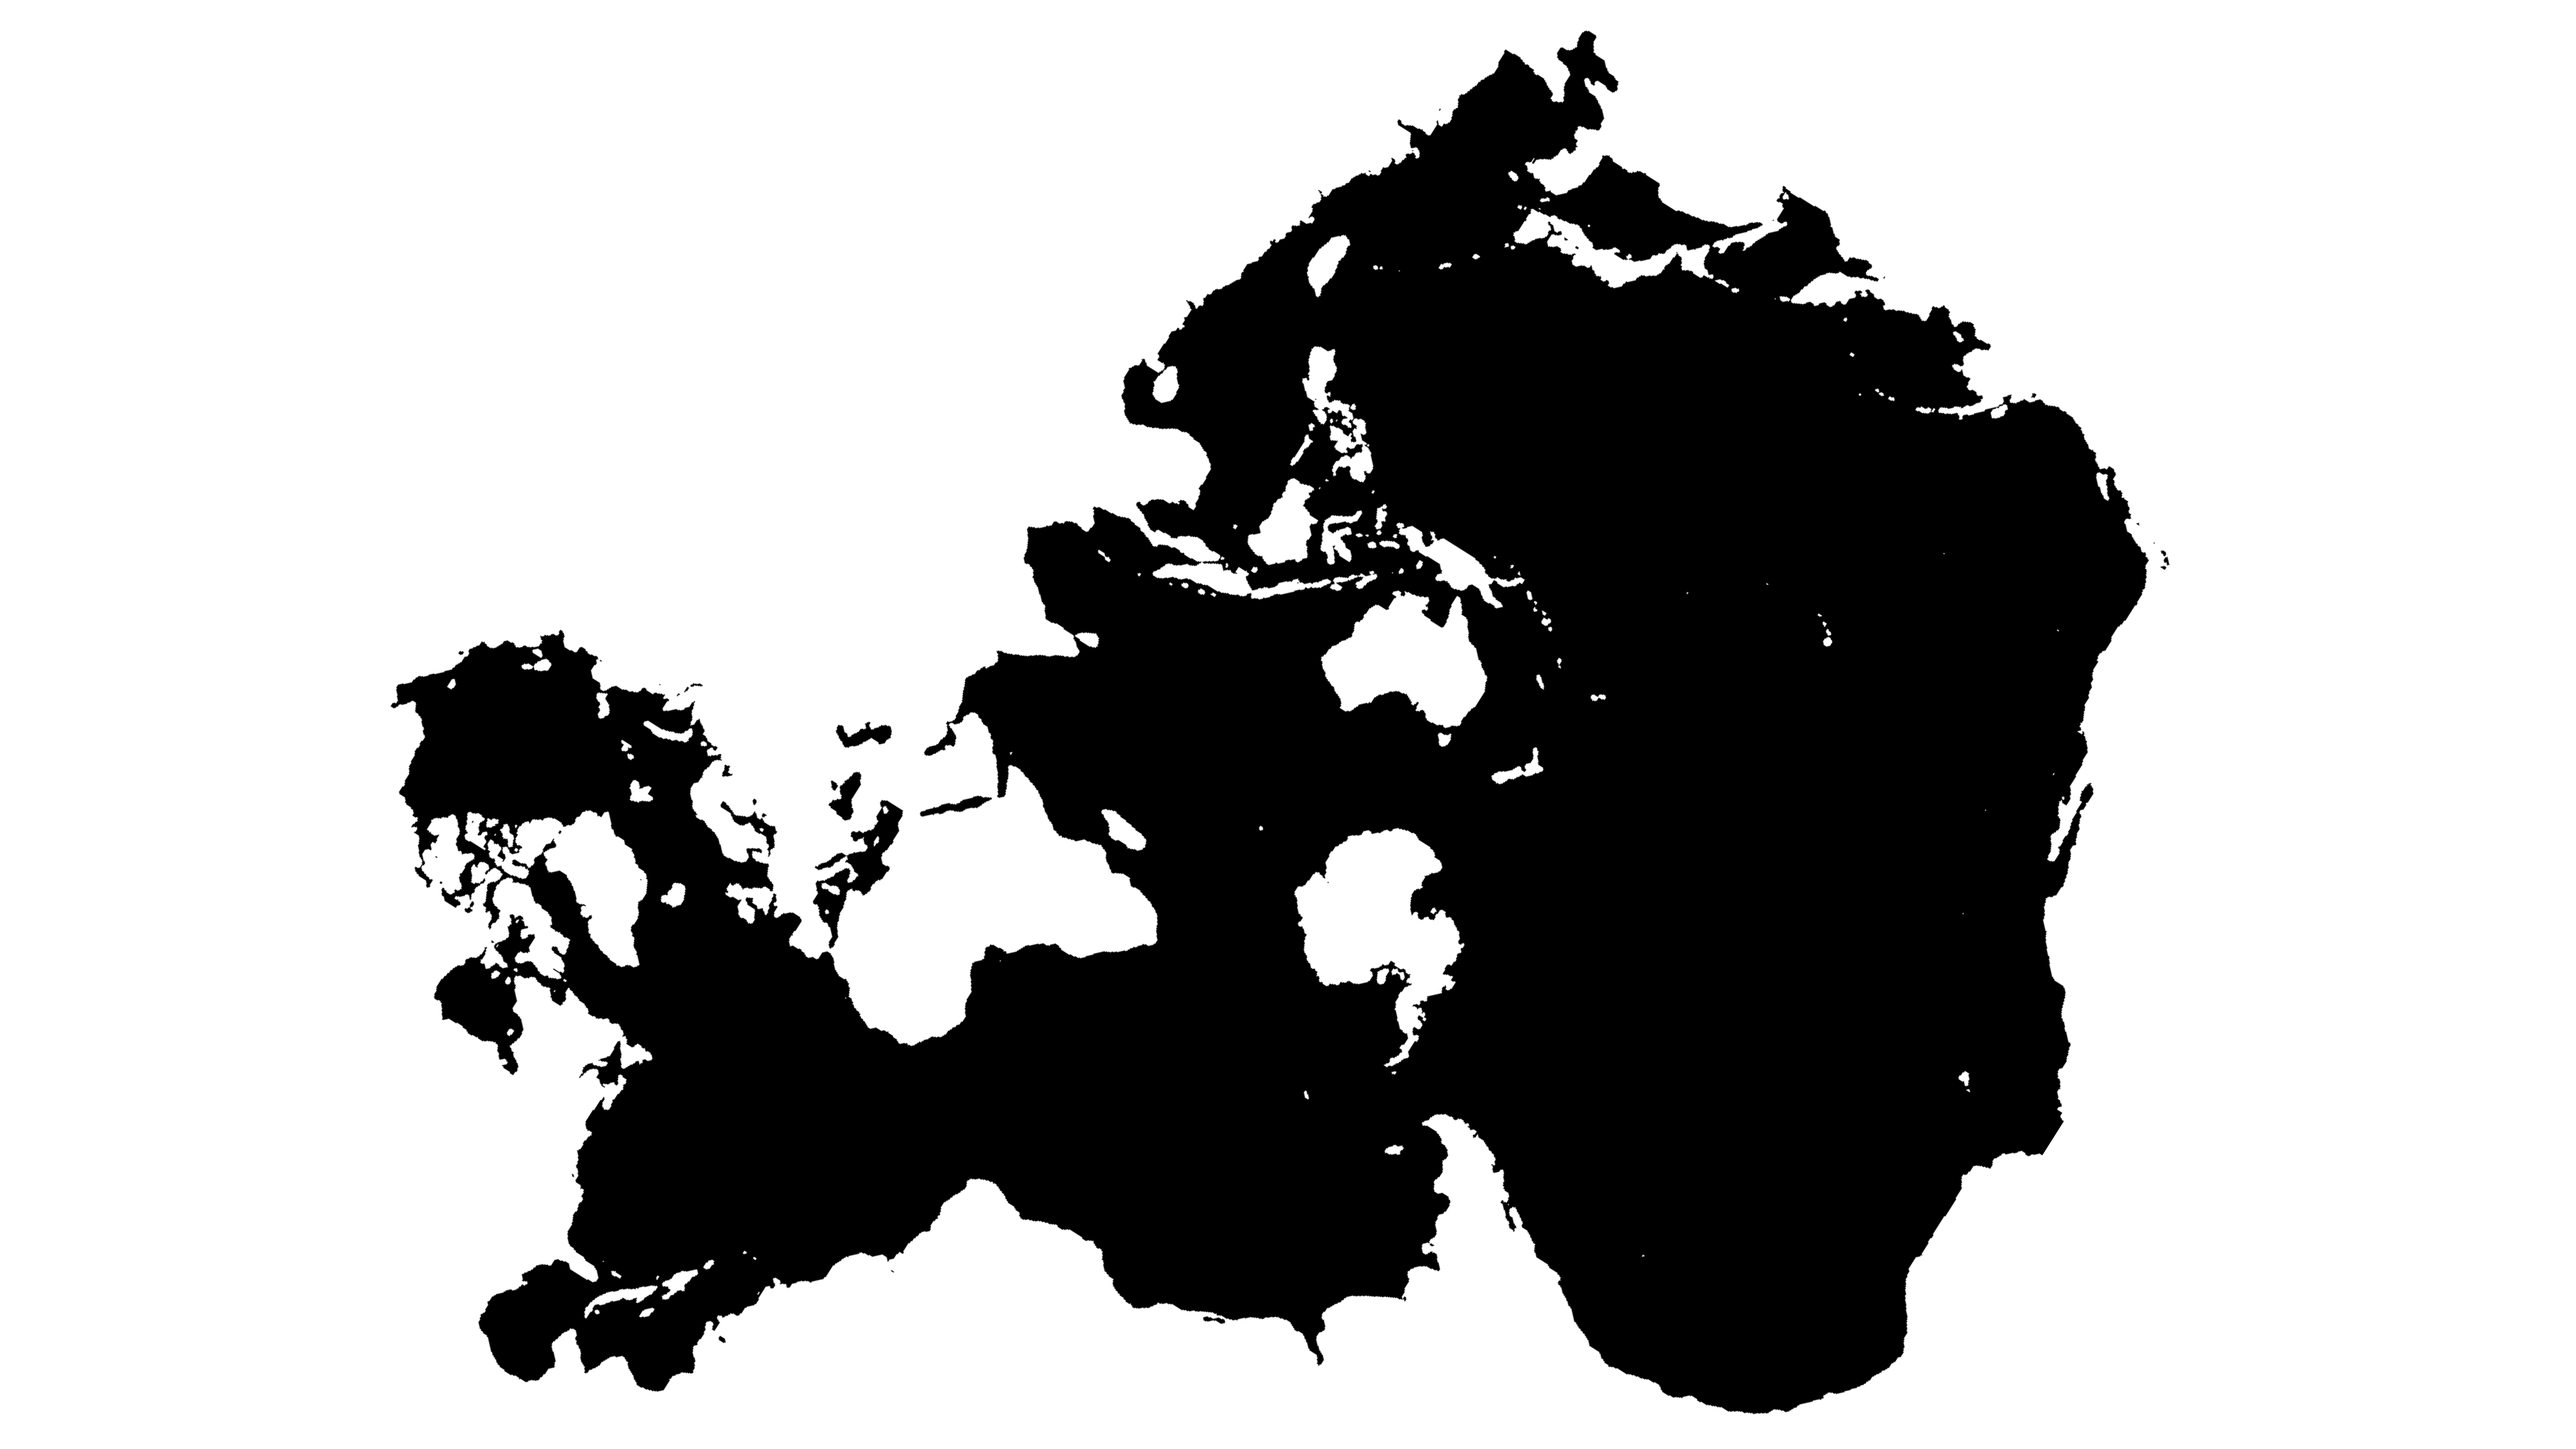
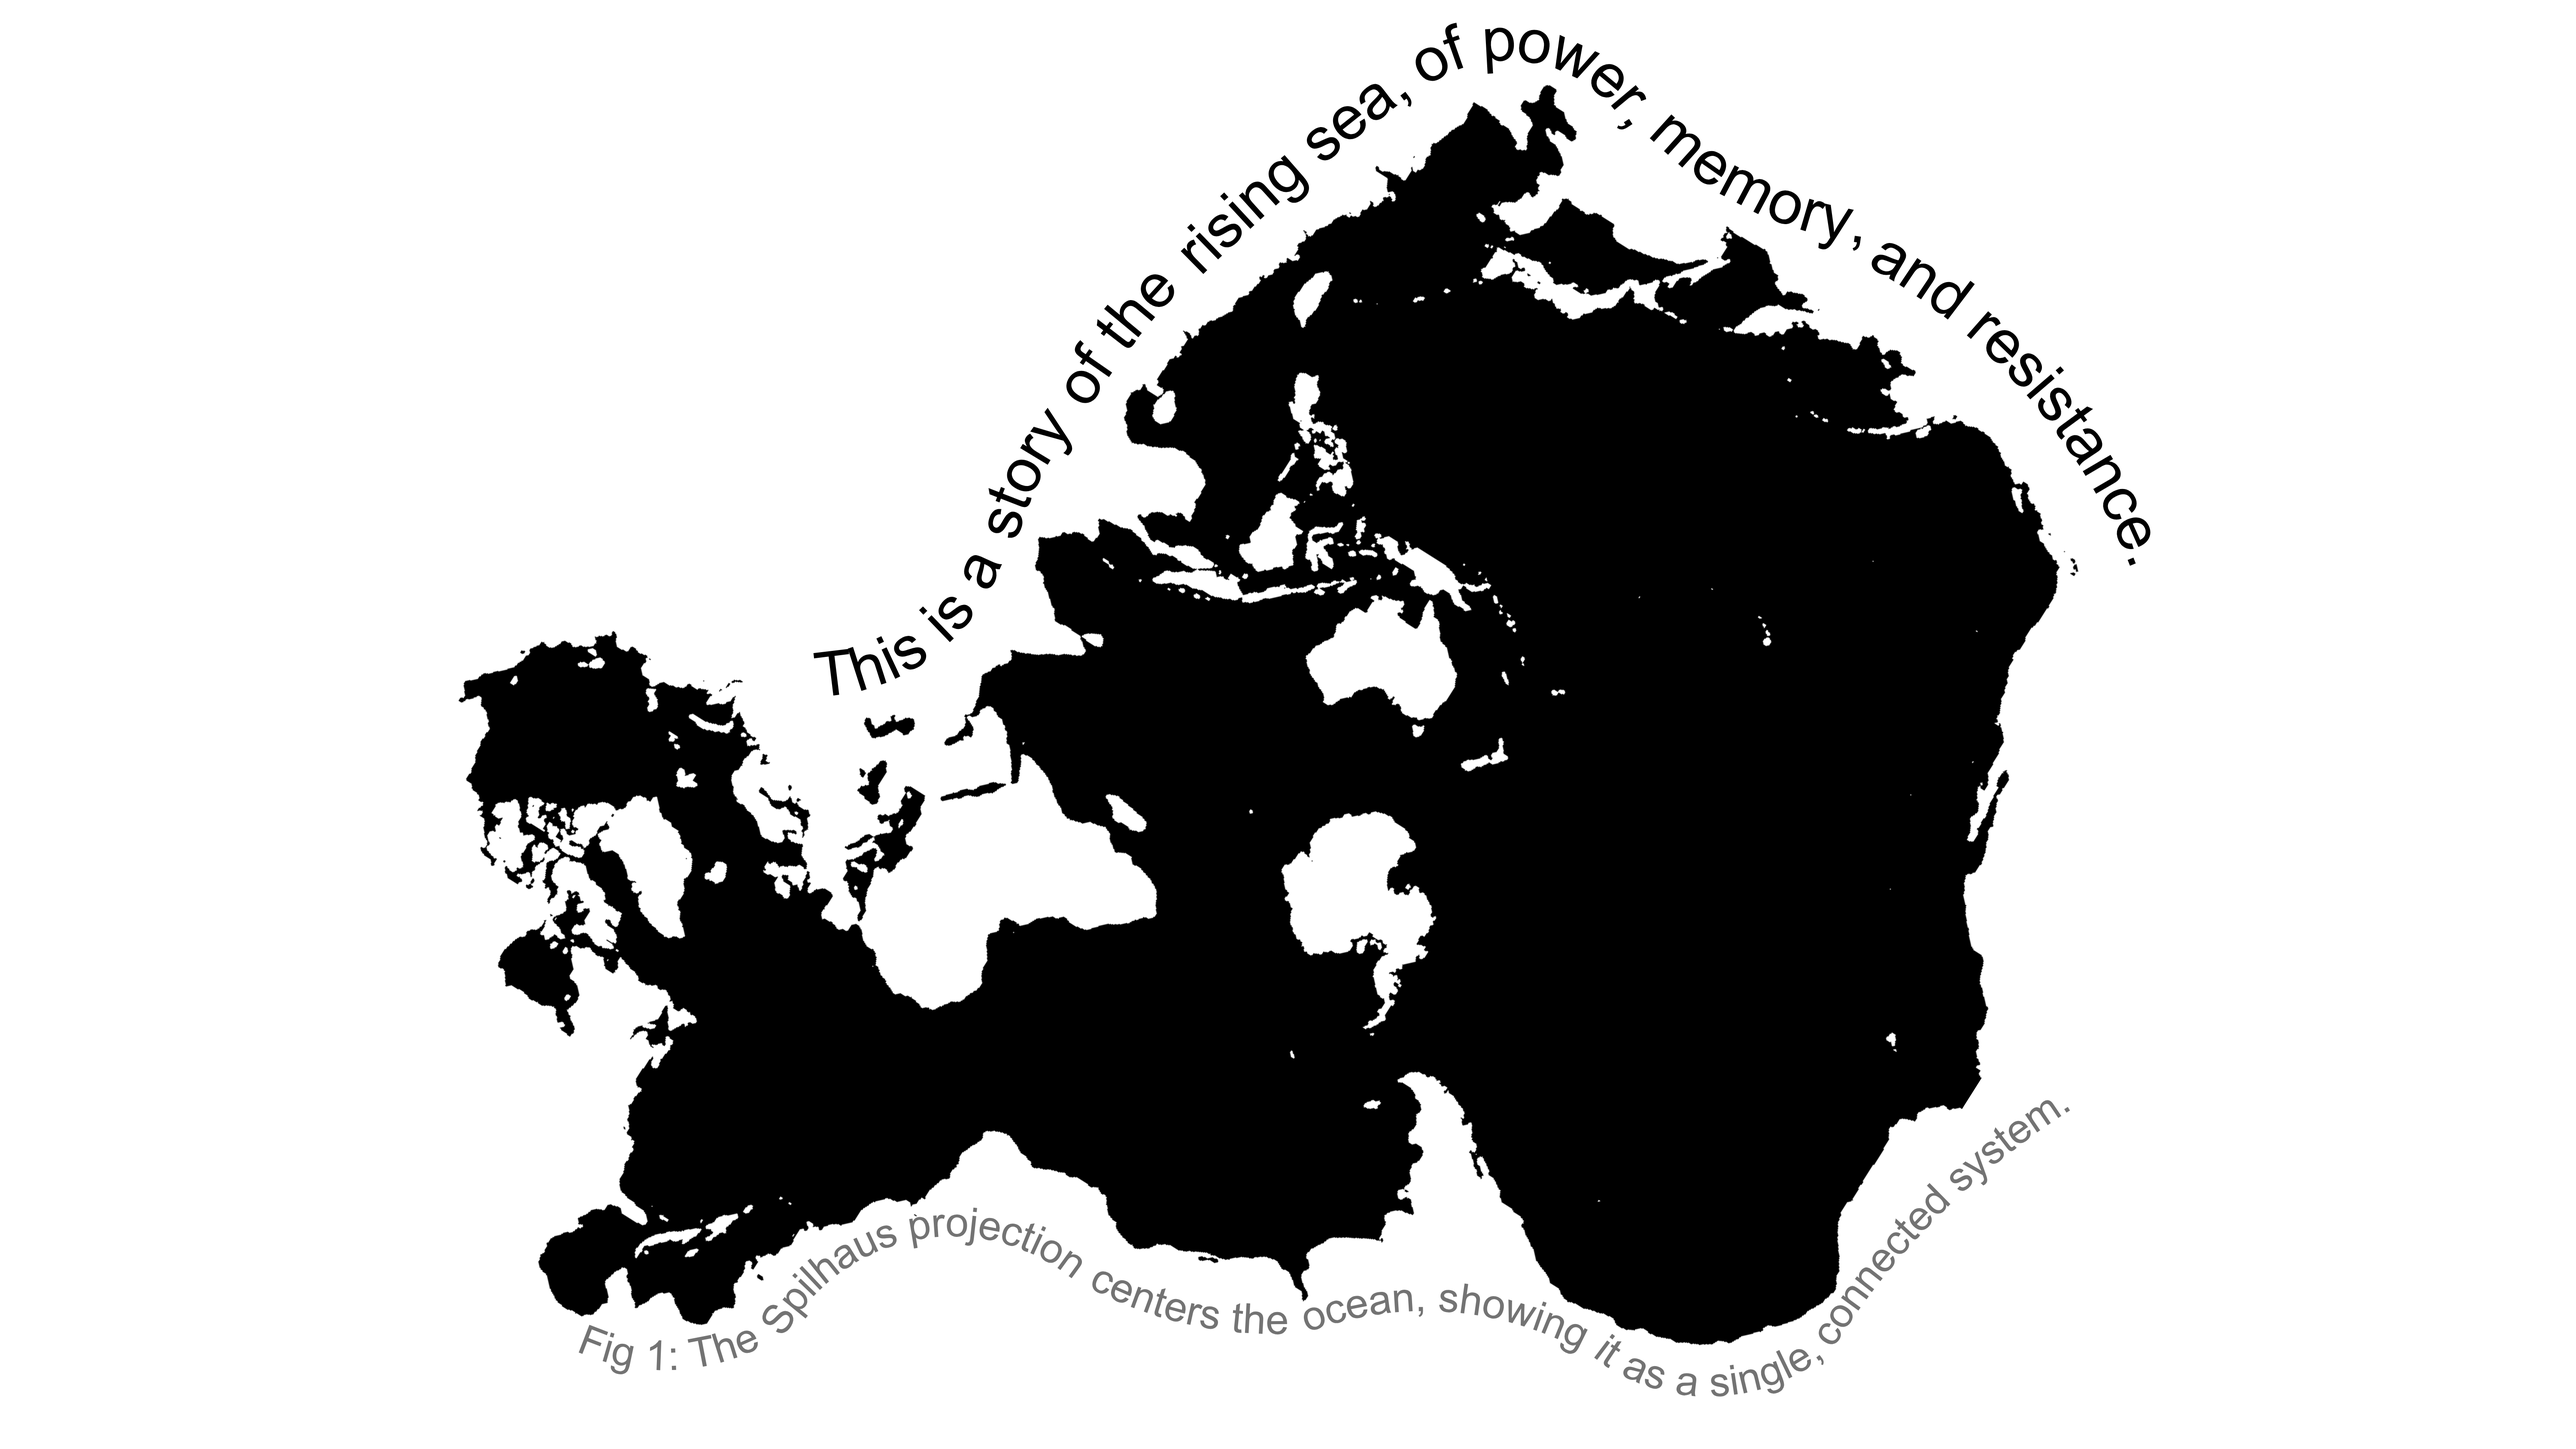
Update Spilhaus map layout: remove Fig 1 caption, add clickable attribution links, adjust positioning

Changed region(s): [[0.1558, 0.0, 0.8415, 0.9956]]

diff --git a/src/app/page.jsx b/src/app/page.jsx
@@ -10,7 +10,6 @@ import InteractiveStarGlobe from './components/InteractiveStarGlobe';
 
 const poemLines = [
   "Shaped by water.",
-  "This is a story of the rising sea. But also of power, memory and resistance.",
   "",
   "The ocean covers over <strong>70 percent</strong> of the Earth's surface. It shapes weather, absorbs heat, and connects distant regions through powerful currents. For many in the Pacific, the ocean is central to life: a source of <strong>food</strong>, <strong>travel</strong>, and <strong>culture</strong>.",
   "",
@@ -224,7 +223,7 @@ export default function TestScroll() {
               // Title - much bigger and bold
               style = { 
                 marginBottom: '1rem', 
-                fontSize: '7rem', 
+                fontSize: '5rem', 
                 fontWeight: 'bold',
                 color: '#000'
               };
@@ -241,32 +240,54 @@ export default function TestScroll() {
             return (
               <React.Fragment key={idx}>
                 <p style={style} dangerouslySetInnerHTML={{ __html: line }}></p>
-                {idx === 1 && (
-                  /* Spilhaus Image - placed right after subtitle */
+                {idx === 0 && (
                   <div style={{
-                    marginTop: '2rem',
+                    width: '100vw',
+                    position: 'relative',
+                    left: '50%',
+                    right: '50%',
+                    marginLeft: '-50vw',
+                    marginRight: '-50vw',
+                    marginTop: '4.5rem',
                     marginBottom: '2rem',
-                    textAlign: 'center'
+                    textAlign: 'center',
+                    display: 'flex',
+                    flexDirection: 'column',
+                    alignItems: 'center',
+                    justifyContent: 'center',
                   }}>
-                    <img 
-                      src="/spilhaus_black.png" 
-                      alt="Spilhaus Projection" 
-                      style={{
-                        maxWidth: '100%',
-                        height: 'auto',
-                        maxHeight: '400px',
-                        objectFit: 'contain'
-                      }}
-                    />
                     <div style={{
-                      marginTop: '1rem',
-                      fontSize: '0.9rem',
-                      color: '#666',
-                      fontStyle: 'italic',
-                      lineHeight: '1.4',
-                      textAlign: 'left'
+                      width: '100%',
+                      maxWidth: '1600px',
+                      height: 'calc(800px * 0.99)',
+                      overflow: 'hidden',
+                      display: 'block',
+                      margin: '0 auto'
                     }}>
-                      Fig 1: The Spilhaus projection centers the ocean, showing it as a single, connected system rather than the space between continents.
+                      <img 
+                        src="/spilhaus_black.png" 
+                        alt="Spilhaus Projection" 
+                                              style={{
+                        width: '100%',
+                        maxWidth: '1200px',
+                        height: 'auto',
+                        maxHeight: '600px',
+                        objectFit: 'contain',
+                        display: 'block',
+                        margin: '0 auto'
+                      }}
+                      />
+                    </div>
+                    <div style={{
+                      marginTop: '0.5rem',
+                      fontSize: '1rem',
+                      color: '#000',
+                      fontWeight: 400,
+                      textAlign: 'center',
+                      maxWidth: '1600px',
+                      width: '100%'
+                    }}>
+                      A project by Bertha <a href="https://www.linkedin.com/in/bertha-ngahan-a9b405145/" target="_blank" rel="noopener noreferrer" style={{ textDecoration: 'underline', color: '#000', fontWeight: 'bold' }}>Ngahan</a> and Janina <a href="https://www.linkedin.com/in/j-grauel/" target="_blank" rel="noopener noreferrer" style={{ textDecoration: 'underline', color: '#000', fontWeight: 'bold' }}>Grauel</a>
                     </div>
                   </div>
                 )}
